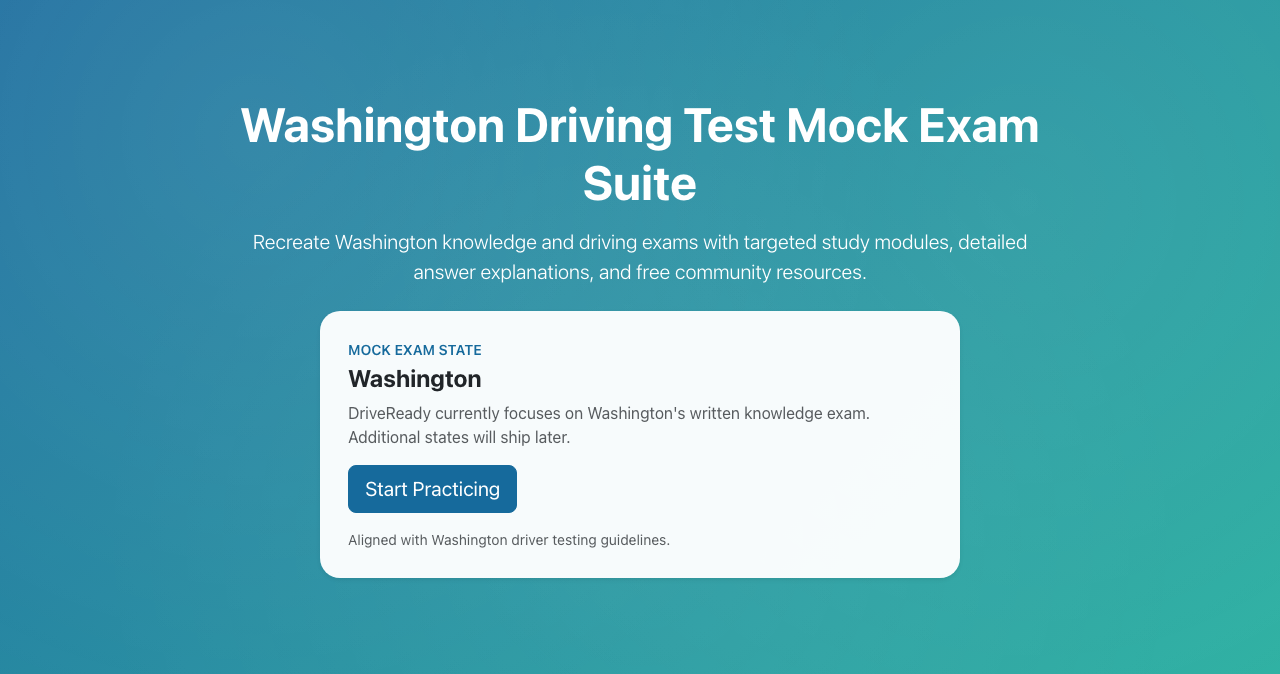
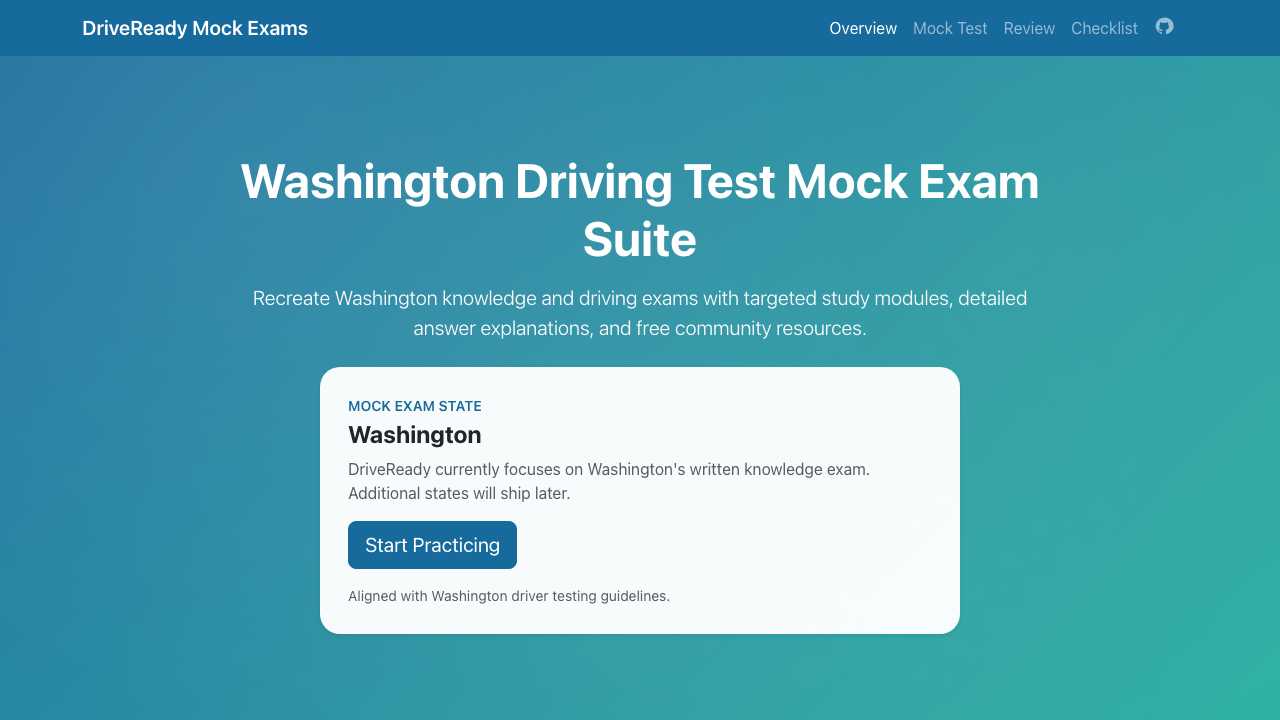
Tweak screenshots further

Changed region(s): [[0.1875, 0.1558, 0.8125, 0.9036], [0.0625, 0.0, 1.0, 0.0935]]

diff --git a/tests/home.spec.ts b/tests/home.spec.ts
@@ -1,5 +1,5 @@
 import { test, expect } from '@playwright/test'
-import { captureLocatorScreenshot } from './utils/doc-screenshots'
+import { captureCombinedScreenshot, captureLocatorScreenshot } from './utils/doc-screenshots'
 
 test.describe('DriveReady landing page', () => {
   test('shows hero content and nav anchors', async ({ page }, testInfo) => {
@@ -8,9 +8,10 @@ test.describe('DriveReady landing page', () => {
     await expect(page.getByRole('heading', { name: 'Washington Driving Test Mock Exam Suite' })).toBeVisible()
     await expect(page.getByRole('navigation')).toContainText('Mock Test')
     await expect(page.getByRole('link', { name: 'Start Practicing' })).toBeVisible()
-    const heroSection = page.locator('.hero-section')
-    await expect(heroSection).toBeVisible()
-    await captureLocatorScreenshot(heroSection, testInfo, 'landing-hero.png')
+  const navBar = page.locator('nav.navbar')
+  const heroSection = page.locator('.hero-section')
+  await expect(heroSection).toBeVisible()
+  await captureCombinedScreenshot(page, testInfo, 'landing-hero.png', [navBar, heroSection])
   })
 
   test('reset progress modal can be opened and dismissed', async ({ page }, testInfo) => {
@@ -19,8 +20,8 @@ test.describe('DriveReady landing page', () => {
     await page.getByRole('button', { name: 'Reset Progress' }).click()
     const dialog = page.getByRole('dialog', { name: 'Reset all saved progress?' })
     await expect(dialog).toBeVisible()
-  await expect(dialog.getByText('This action cannot be undone.')).toBeVisible()
-  await captureLocatorScreenshot(dialog, testInfo, 'reset-modal.png')
+    await expect(dialog.getByText('This action cannot be undone.')).toBeVisible()
+    await captureLocatorScreenshot(dialog, testInfo, 'reset-modal.png')
 
     await dialog.getByRole('button', { name: 'Cancel' }).click()
     await expect(dialog).toBeHidden()

diff --git a/tests/utils/doc-screenshots.ts b/tests/utils/doc-screenshots.ts
@@ -54,3 +54,44 @@ export const captureLocatorScreenshot = async (
     path: resolvePath(filename),
   })
 }
+
+type CombinedScreenshotOptions = {
+  padding?: number
+}
+
+export const captureCombinedScreenshot = async (
+  page: Page,
+  testInfo: TestInfo,
+  filename: string,
+  locators: Locator[],
+  options: CombinedScreenshotOptions = {},
+): Promise<void> => {
+  if (!shouldCapture(testInfo)) {
+    return
+  }
+  const boxes = await Promise.all(locators.map((locator) => locator.boundingBox()))
+  if (boxes.some((box) => !box)) {
+    return
+  }
+  const nonNullBoxes = boxes as Array<NonNullable<(typeof boxes)[number]>>
+  const padding = options.padding ?? 12
+  const minX = Math.max(Math.min(...nonNullBoxes.map((box) => box.x)) - padding, 0)
+  const minY = Math.max(Math.min(...nonNullBoxes.map((box) => box.y)) - padding, 0)
+  const maxX = Math.max(...nonNullBoxes.map((box) => box.x + box.width)) + padding
+  const maxY = Math.max(...nonNullBoxes.map((box) => box.y + box.height)) + padding
+  const viewport = page.viewportSize()
+  const clipWidth = viewport ? Math.min(maxX - minX, viewport.width - minX) : maxX - minX
+  const clipHeight = viewport ? Math.min(maxY - minY, viewport.height - minY) : maxY - minY
+  if (clipWidth <= 0 || clipHeight <= 0) {
+    return
+  }
+  await page.screenshot({
+    path: resolvePath(filename),
+    clip: {
+      x: minX,
+      y: minY,
+      width: clipWidth,
+      height: clipHeight,
+    },
+  })
+}

diff --git a/tests/review.spec.ts b/tests/review.spec.ts
@@ -18,7 +18,7 @@ test.describe('Smart Review experience', () => {
     await page.locator('#review').scrollIntoViewIfNeeded()
     const startButton = page.getByRole('button', { name: 'Start Smart Review' })
     await expect(startButton).toBeEnabled()
-    await startButton.click()
+  await startButton.click()
 
     const cardBadge = page.locator('#review .badge', { hasText: /Card 1 of/ })
     await expect(cardBadge).toBeVisible()
@@ -26,9 +26,9 @@ test.describe('Smart Review experience', () => {
     const firstChoice = page.locator('#review .list-group .list-group-item').first()
     await firstChoice.click()
     const explanationAlert = page.locator('#review .alert-info').first()
-  await expect(explanationAlert).toContainText('Explanation:', { timeout: 10000 })
-  const reviewCard = page.locator('#review .card.border-0.shadow-sm').first()
-  await captureLocatorScreenshot(reviewCard, testInfo, 'smart-review.png')
+    await expect(explanationAlert).toContainText('Explanation:', { timeout: 10000 })
+    const reviewSection = page.locator('#review')
+    await captureLocatorScreenshot(reviewSection, testInfo, 'smart-review.png')
 
     await page.getByRole('button', { name: 'Good' }).click()
     await expect(
